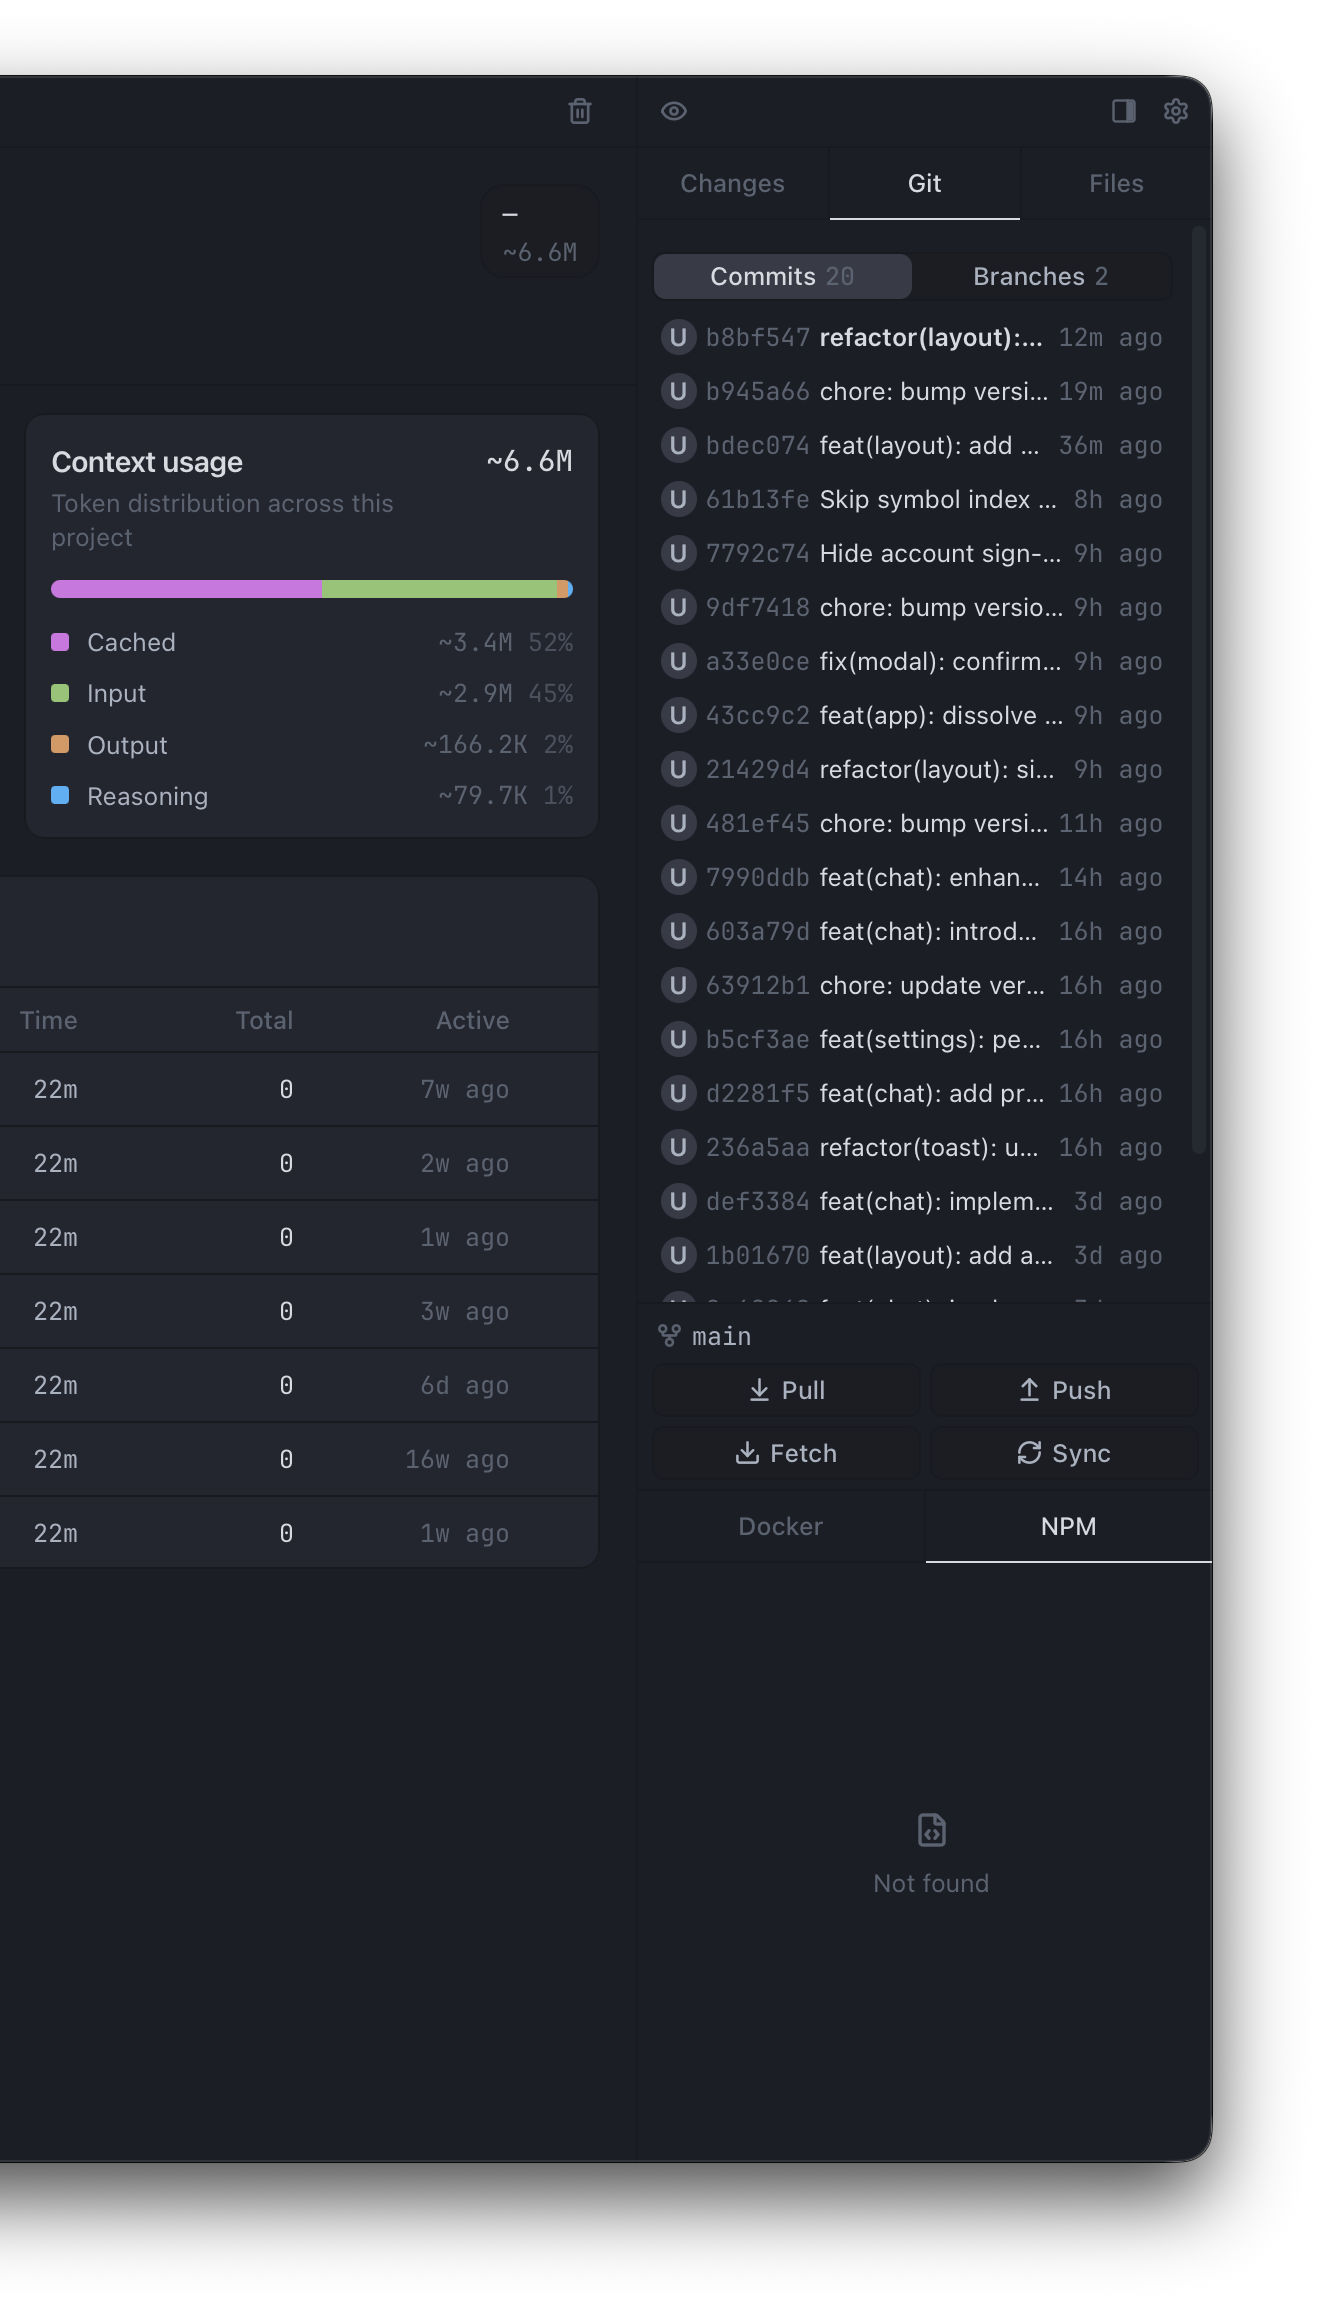
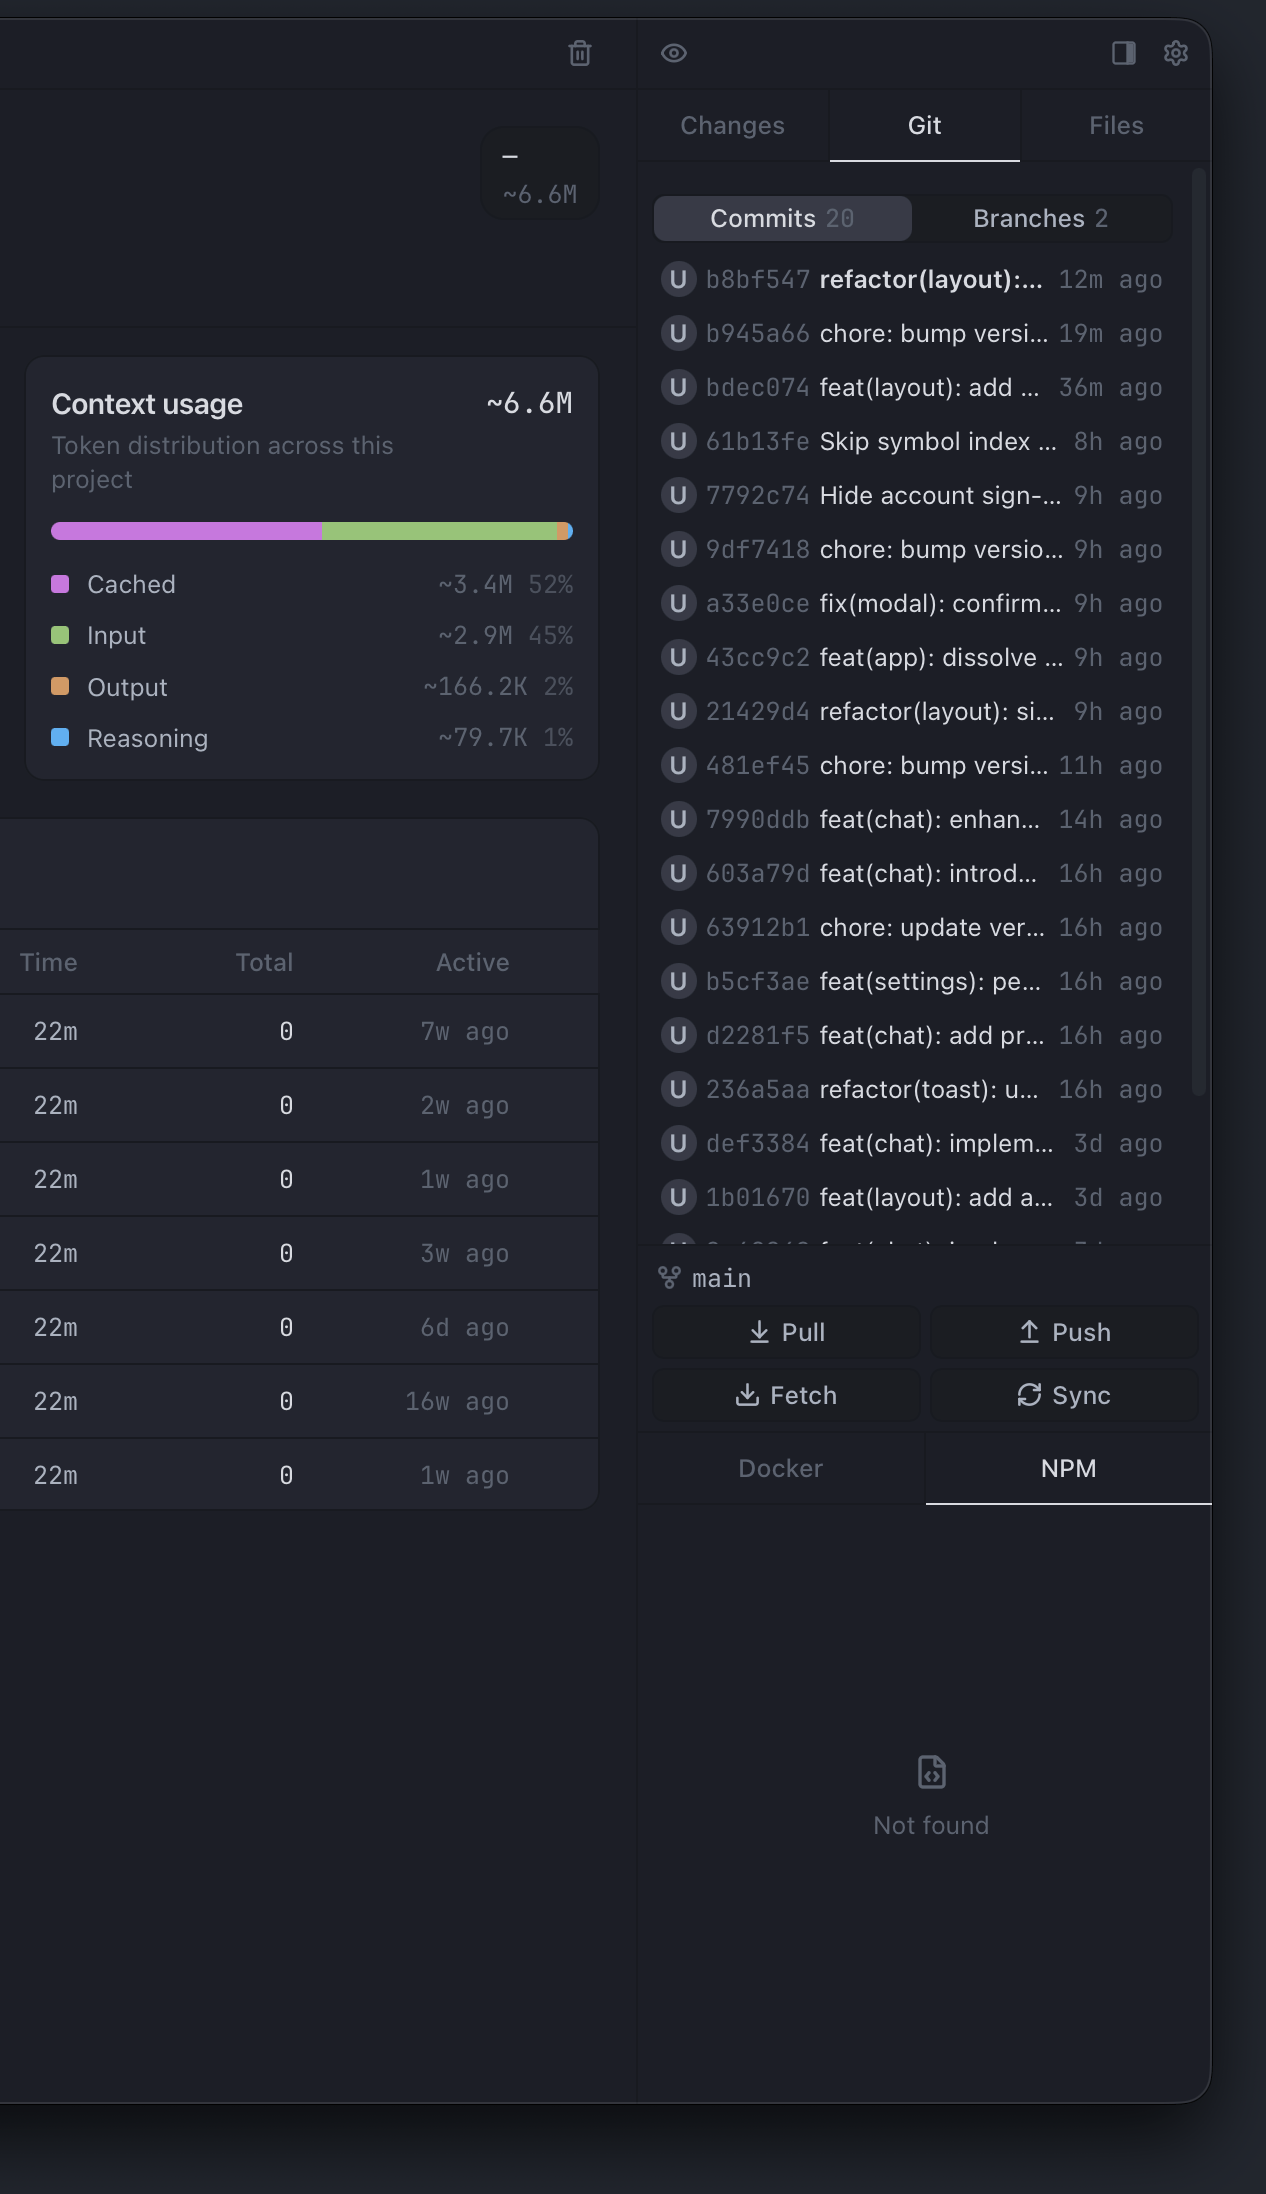
Add new feature and screen assets, update translations and component structure: introduce new images for environment, models, and modes features; replace the projects screenshot with projects-chats; enhance the FeaturesSection and ScreensSection components to utilize new assets; and update translati

diff --git a/src/i18n/translations.ts b/src/i18n/translations.ts
@@ -27,14 +27,17 @@ export const translations: Readonly<Record<Locale, Translation>> = {
       {
         title: 'Environment control',
         description: 'Run Docker, Git, Composer, and npm without launching other apps.',
+        alt: 'Docker and npm scripts in the Axiom environment panel',
       },
       {
         title: 'Work modes',
         description: 'Agent edits the code. Ask advises on the code. Plan scopes the feature.',
+        alt: 'Agent, Plan and Ask mode menu in the Axiom composer',
       },
       {
         title: 'Any model',
         description: 'Connect your own local models, or any other model as a GGUF file.',
+        alt: 'Model providers in Axiom: Anthropic, OpenAI, Grok, Google, Qwen, DeepSeek and OpenRouter',
       },
     ],
     faqTitle: 'Questions',
@@ -77,19 +80,22 @@ export const translations: Readonly<Record<Locale, Translation>> = {
     },
     screens: [
       {
-        title: 'Projects and chats, side by side',
-        description:
-          'The open folder, its chats and token use. Switch projects without leaving the window.',
-        alt: 'Axiom project list, chats and token use',
+        title: 'Easy project grouping',
+        description: 'Group chats by namespace, project, or group.',
+        alt: 'Axiom project list with chats grouped by folder',
       },
       {
-        title: 'Git next to the chat',
-        description:
-          'Context, commits and branches in the same column. Pull, push and Docker stay in this window.',
+        title: 'Control Git, npm, and Docker',
+        description: 'Run your stack without extra apps.',
         alt: 'Axiom project context and Git panel',
       },
+      {
+        title: 'Pipelines',
+        description: 'Compose your own action chains and build your own pipeline.',
+        alt: 'Axiom pipelines: Quick fix, Plan and implement, Feature delivery, Bug hunt, Code review, and Security audit',
+      },
     ],
-    ctaTitle: 'A new level of project control',
+    ctaTitle: 'A new level of project orchestration',
     ctaSubtitle:
       'A multi-agent desktop client for code, the environment, and agents. Built for companies and teams.',
     footerGroups: { product: 'Product', resources: 'Resources', legal: 'Legal' },
@@ -117,21 +123,24 @@ export const translations: Readonly<Record<Locale, Translation>> = {
     heroTitle: 'Мультиагентная среда разработки',
     heroSubtitle: 'Единое пространство для проекта, окружения, моделей и пайплайнов',
     downloadBeta: 'Скачать бету',
-    featuresTitle: 'Для настоящей работы с кодом',
+    featuresTitle: 'Для настоящей работы с проектами',
     features: [
       {
         title: 'Управление окружением',
         description:
           'Управляйте Docker, Git, Composer и npm, не запуская дополнительных приложений.',
+        alt: 'Панель окружения Axiom: вкладки Docker и npm со скриптами',
       },
       {
         title: 'Режимы работы',
         description: 'Agent правит код, Ask — умный советник по коду, Plan планирует фичу.',
+        alt: 'Меню режимов Axiom: Agent, Plan и Ask',
       },
       {
         title: 'Любые модели',
         description:
           'Подключайте свои локальные модели или любые другие в формате GGUF.',
+        alt: 'Провайдеры моделей в Axiom: Anthropic, OpenAI, Grok, Google, Qwen, DeepSeek и OpenRouter',
       },
     ],
     faqTitle: 'Вопросы',
@@ -174,17 +183,22 @@ export const translations: Readonly<Record<Locale, Translation>> = {
     },
     screens: [
       {
-        title: 'Проекты и чаты рядом',
-        description: 'Открытая папка, её чаты и расход токенов. Переключение между проектами в том же окне.',
-        alt: 'Axiom: список проектов, чаты и расход токенов',
+        title: 'Легкая группировка проектов',
+        description: 'Группируйте чаты по неймспейсам, проектам или группам.',
+        alt: 'Axiom: список проектов и чаты по папкам',
       },
       {
-        title: 'Git рядом с чатом',
-        description: 'Контекст, коммиты и ветки в той же колонке. Pull, push и Docker остаются в этом окне.',
+        title: 'Управляйте git, npm и Docker',
+        description: 'Управляйте своим стеком без дополнительных приложений.',
         alt: 'Axiom: контекст проекта и панель Git',
       },
+      {
+        title: 'Пайплайны',
+        description: 'Составляйте свои цепочки действий, формируйте свой пайплайн.',
+        alt: 'Пайплайны Axiom: Quick fix, Plan and implement, Feature delivery, Bug hunt, Code review и Security audit',
+      },
     ],
-    ctaTitle: 'Новый уровень управления проектами',
+    ctaTitle: 'Новый уровень оркестрации проектами',
     ctaSubtitle: 'Мультиагентный десктопный клиент для работы с кодом, окружением и агентами. Для компаний и команд.',
     footerGroups: { product: 'Продукт', resources: 'Материалы', legal: 'Документы' },
     footerLinks: { releases: 'Релизы', source: 'Исходный код', issues: 'Баги', license: 'Лицензия' },

diff --git a/src/i18n/translations.types.ts b/src/i18n/translations.types.ts
@@ -2,7 +2,7 @@ import type { ProviderKey } from '../site.config'
 
 export type Locale = 'en' | 'ru'
 
-export type FeatureText = Readonly<{ title: string; description: string }>
+export type FeatureText = Readonly<{ title: string; description: string; alt: string }>
 
 export type ScreenText = Readonly<{ title: string; description: string; alt: string }>
 
